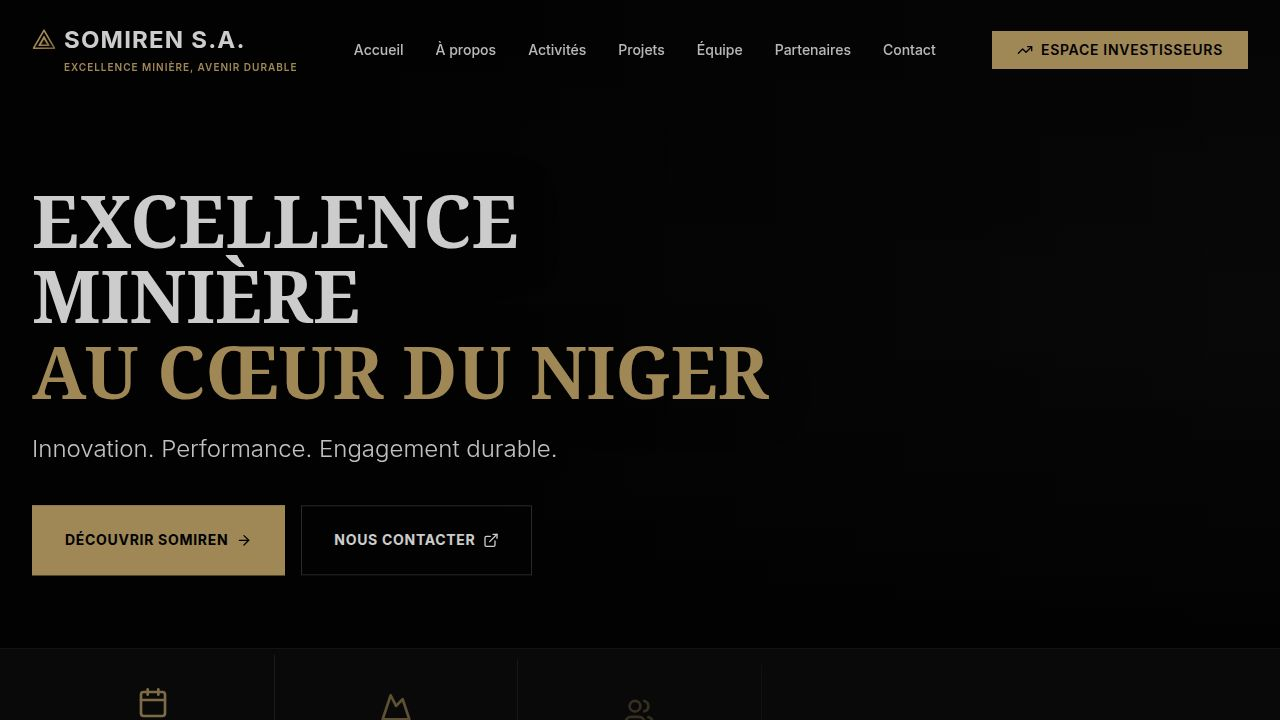
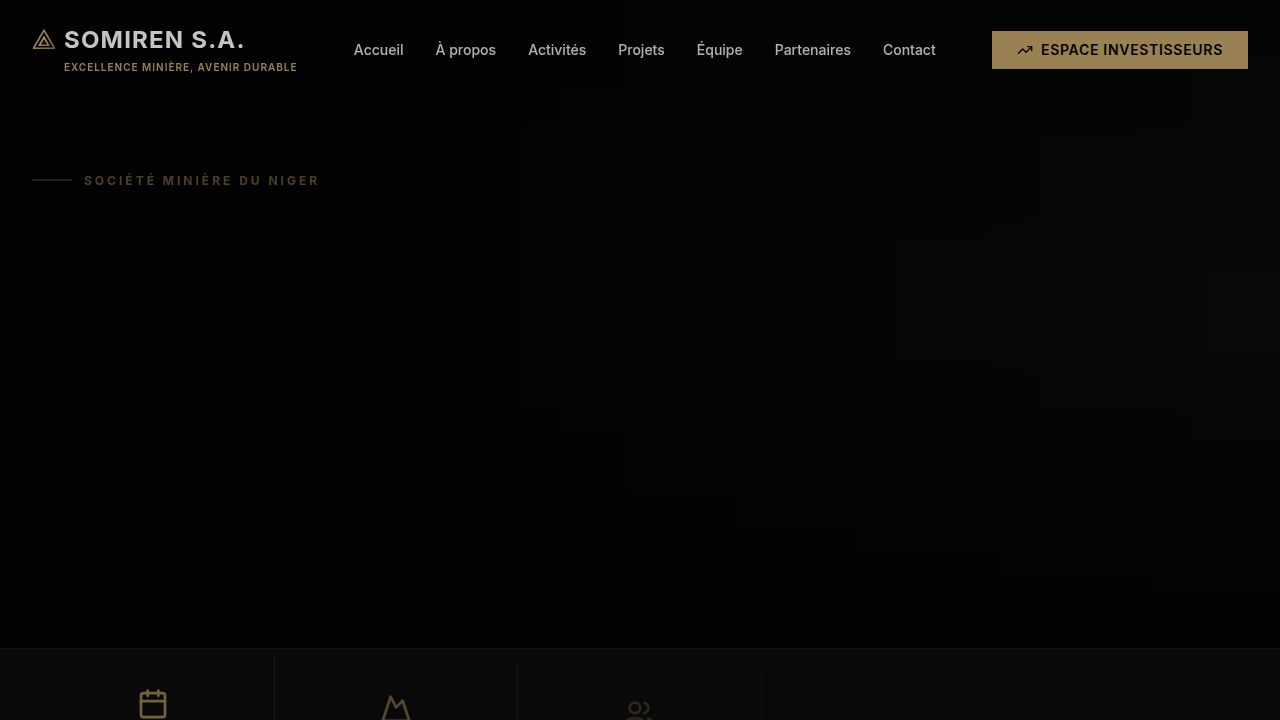
Add subtle animations to the hero section for a premium feel
Introduce Ken Burns effect on hero image and staggered text animations using Framer Motion, enhancing visual appeal and user experience.

Replit-Commit-Author: Agent
Replit-Commit-Session-Id: 807ac5cb-46fb-4660-b031-da2f828a7606
Replit-Commit-Checkpoint-Type: full_checkpoint
Replit-Commit-Event-Id: 386e0143-1cc5-4197-8353-5c4663df1463
Replit-Commit-Screenshot-Url: https://storage.googleapis.com/screenshot-production-us-central1/8f29cde8-ed76-422b-95ce-a7a342ef67a1/807ac5cb-46fb-4660-b031-da2f828a7606/Rb64Xp7
Replit-Helium-Checkpoint-Created: true

diff --git a/artifacts/somiren/src/components/Hero.tsx b/artifacts/somiren/src/components/Hero.tsx
@@ -1,8 +1,20 @@
-import { motion } from "framer-motion";
+import { motion, type Transition, type Variants } from "framer-motion";
 import { ArrowRight, ExternalLink } from "lucide-react";
 import { Button } from "@/components/ui/button";
 import { useLocation } from "wouter";
 import heroImg from "@/assets/hero.png";
+
+const containerVariants: Variants = {
+  hidden: {},
+  visible: {
+    transition: { staggerChildren: 0.18, delayChildren: 0.2 },
+  },
+};
+
+const itemVariants: Variants = {
+  hidden: { opacity: 0, y: 22 },
+  visible: { opacity: 1, y: 0, transition: { duration: 0.7, ease: [0.22, 1, 0.36, 1] } },
+};
 
 export default function Hero() {
   const [, setLocation] = useLocation();
@@ -14,45 +26,72 @@ export default function Hero() {
 
   return (
     <section id="home" className="relative min-h-[90vh] flex items-center pt-24 overflow-hidden">
+      {/* Background with Ken Burns */}
       <div className="absolute inset-0 z-0">
-        <img
+        <motion.img
           src={heroImg}
           alt="Opérations minières Somiren S.A."
-          className="w-full h-full object-cover"
+          draggable={false}
+          className="w-full h-full object-cover pointer-events-none select-none"
+          initial={{ scale: 1 }}
+          animate={{ scale: 1.06 }}
+          transition={{ duration: 22, ease: [0.42, 0, 0.58, 1], repeat: Infinity, repeatType: "reverse" } as Transition}
         />
-        <div className="absolute inset-0 bg-gradient-to-r from-black via-black/85 to-black/30" style={{ backgroundImage: "linear-gradient(to right, rgba(0,0,0,0.95) 0%, rgba(0,0,0,0.85) 35%, rgba(0,0,0,0.5) 65%, rgba(0,0,0,0.2) 100%)" }}></div>
-        <div className="absolute inset-0 bg-gradient-to-t from-black/90 via-transparent to-black/40"></div>
+        <div
+          className="absolute inset-0"
+          style={{ backgroundImage: "linear-gradient(to right, rgba(0,0,0,0.95) 0%, rgba(0,0,0,0.85) 35%, rgba(0,0,0,0.5) 65%, rgba(0,0,0,0.2) 100%)" }}
+        />
+        <div className="absolute inset-0 bg-gradient-to-t from-black/90 via-transparent to-black/40" />
       </div>
 
       <div className="container relative z-10 mx-auto px-4 md:px-8">
         <motion.div
-          initial={{ y: 20 }}
-          animate={{ y: 0 }}
-          transition={{ duration: 0.6 }}
           className="max-w-3xl"
+          variants={containerVariants}
+          initial="hidden"
+          animate="visible"
         >
-          <h1 className="text-5xl md:text-7xl font-bold leading-[1.05] mb-6 font-serif drop-shadow-[0_4px_20px_rgba(0,0,0,0.7)]">
+          {/* Eyebrow line */}
+          <motion.div variants={itemVariants} className="flex items-center gap-3 mb-6">
+            <div className="h-px w-10 bg-primary" />
+            <span className="text-primary text-xs font-bold tracking-[0.25em] uppercase">
+              Société Minière du Niger
+            </span>
+          </motion.div>
+
+          {/* Title */}
+          <motion.h1
+            variants={itemVariants}
+            className="text-5xl md:text-7xl font-bold leading-[1.05] mb-6 font-serif drop-shadow-[0_4px_20px_rgba(0,0,0,0.7)]"
+          >
             <span className="block text-white">EXCELLENCE MINIÈRE</span>
             <span className="block text-primary">AU CŒUR DU NIGER</span>
-          </h1>
-          <p className="text-xl md:text-2xl text-white/95 mb-10 font-light drop-shadow-[0_2px_8px_rgba(0,0,0,0.6)]">
+          </motion.h1>
+
+          {/* Subtitle */}
+          <motion.p
+            variants={itemVariants}
+            className="text-xl md:text-2xl text-white/95 mb-10 font-light drop-shadow-[0_2px_8px_rgba(0,0,0,0.6)]"
+          >
             Innovation. Performance. Engagement durable.
-          </p>
-          <div className="flex flex-col sm:flex-row gap-4">
-            <Button 
+          </motion.p>
+
+          {/* CTAs */}
+          <motion.div variants={itemVariants} className="flex flex-col sm:flex-row gap-4">
+            <Button
               onClick={scrollToAbout}
               className="bg-primary text-black hover:bg-primary/90 hover:scale-105 transition-all rounded-none px-8 py-6 text-sm font-bold uppercase tracking-wider gap-2"
             >
               DÉCOUVRIR SOMIREN <ArrowRight className="w-4 h-4" />
             </Button>
-            <Button 
+            <Button
               onClick={() => setLocation("/contact")}
-              variant="outline" 
+              variant="outline"
               className="border-white/20 text-white hover:bg-primary hover:text-black hover:border-primary transition-all rounded-none px-8 py-6 text-sm font-bold uppercase tracking-wider gap-2"
             >
               NOUS CONTACTER <ExternalLink className="w-4 h-4" />
             </Button>
-          </div>
+          </motion.div>
         </motion.div>
       </div>
     </section>
